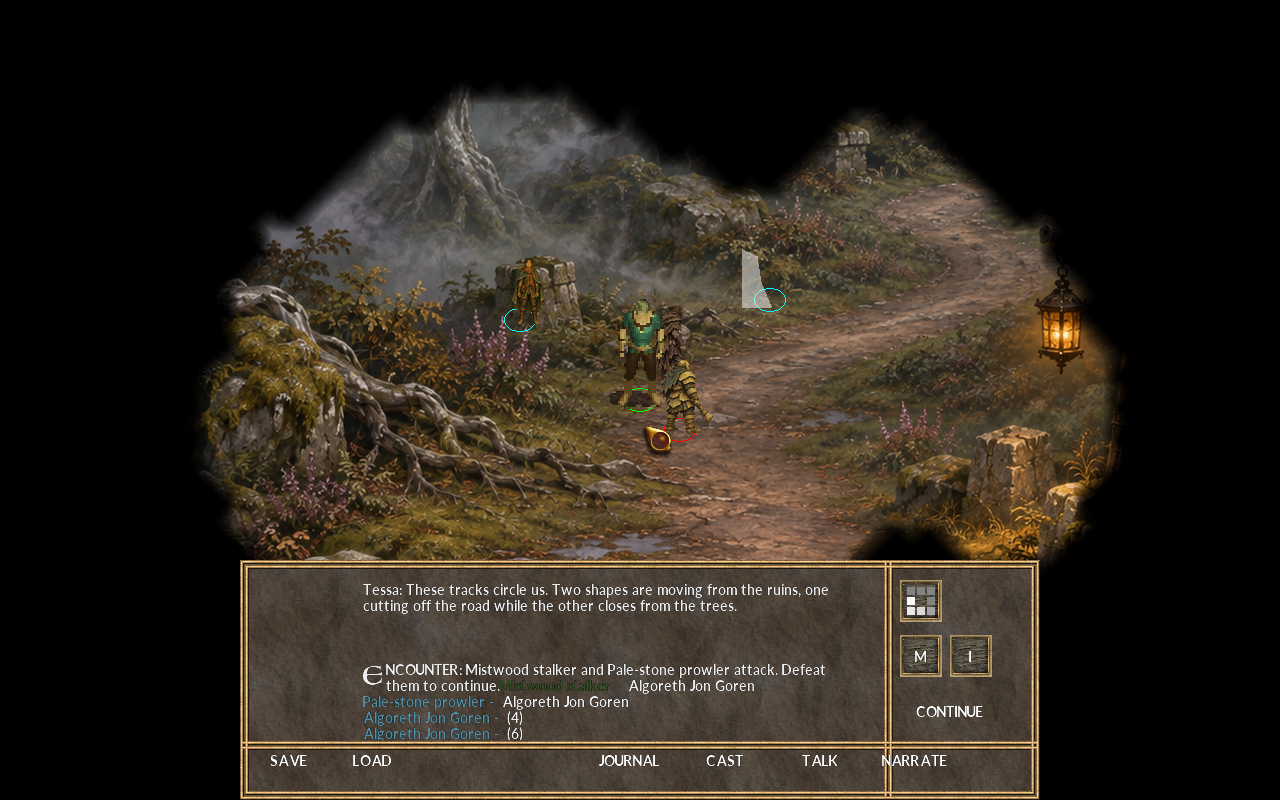
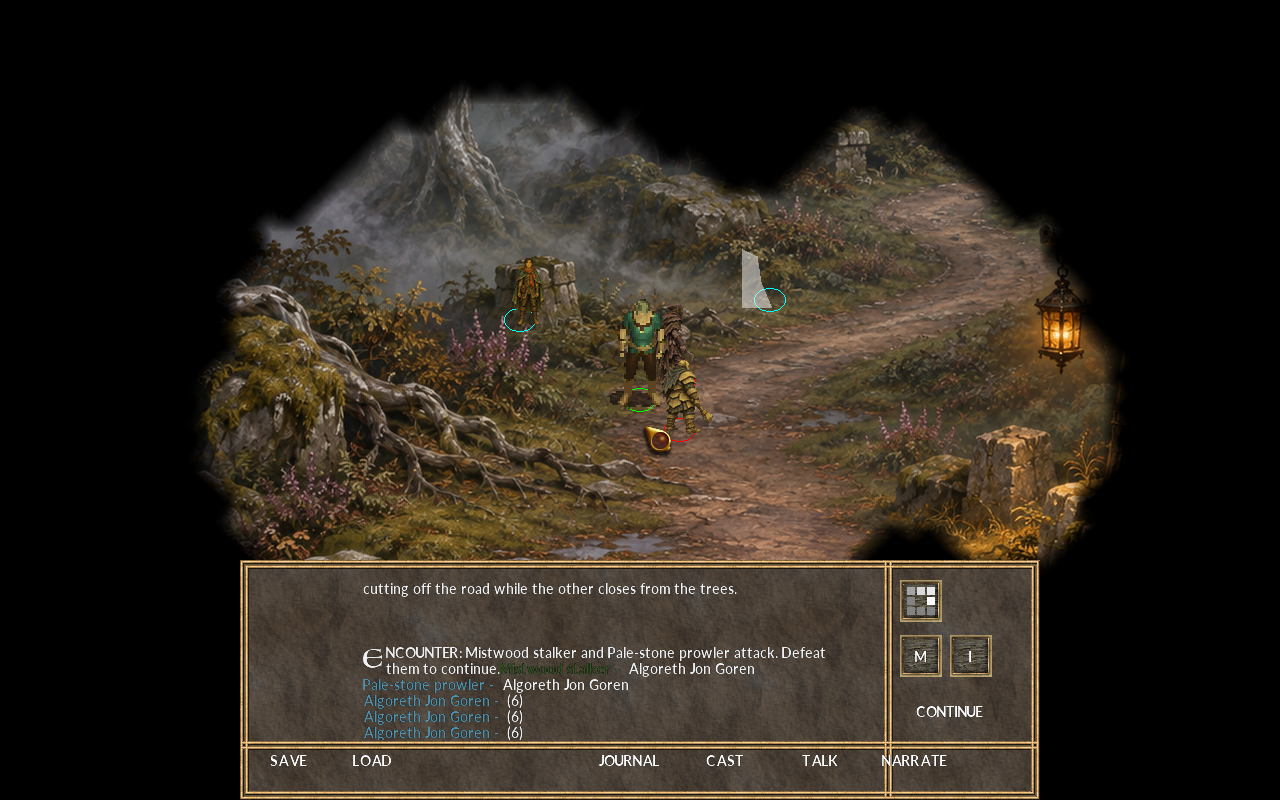
Add directional enemy attack animations

Changed region(s): [[0.2812, 0.8125, 0.6562, 0.9375], [0.2812, 0.7188, 0.625, 0.7812], [0.6875, 0.7188, 0.75, 0.7812]]

diff --git a/tools/terralum/build_npc_bams.py b/tools/terralum/build_npc_bams.py
@@ -224,6 +224,9 @@ def write_npc_avatar(name, prefix, output_override):
 	walk_bam = _bam_bytes(walk, walk_cycles)
 
 	idle = [_open_world_frame(source / f"{direction:02d}_00.png") for direction in range(9)]
+	attack_paths = [source / f"attack_{direction:02d}.png" for direction in range(9)]
+	attack = [_open_world_frame(path) for path in attack_paths] if all(
+		path.is_file() for path in attack_paths) else idle
 	# The standard humanoid's G17 awake stance indexes cycles 63 through 71.
 	idle_cycles = [[0] for _ in range(63)]
 	idle_cycles.extend([[direction] for direction in range(9)])
@@ -249,4 +252,16 @@ def write_npc_avatar(name, prefix, output_override):
 	(output_override / f"{prefix}G17.BAM").write_bytes(idle_bam)
 	for suffix, data in stance_bams.items():
 		(output_override / f"{prefix}{suffix}.BAM").write_bytes(data)
+
+	# IE_ANI_CODE_MIRROR resolves the three weapon families to a1-a3,
+	# a4-a6, or a7-a9 during melee. Supply all directional action BAMs.
+	attack_frames = []
+	attack_cycles = []
+	for direction in range(9):
+		start = len(attack_frames)
+		attack_frames.extend((idle[direction], attack[direction], idle[direction]))
+		attack_cycles.append([start, start + 1, start + 2])
+	attack_bam = _bam_bytes(attack_frames, attack_cycles)
+	for suffix in range(1, 10):
+		(output_override / f"{prefix}a{suffix}.BAM").write_bytes(attack_bam)
 	return (len(walk_bam), len(ready_bam), len(idle_bam))

diff --git a/tools/terralum/import_painted_turnaround.py b/tools/terralum/import_painted_turnaround.py
@@ -24,6 +24,8 @@ def main():
 	parser = argparse.ArgumentParser(description=__doc__)
 	parser.add_argument("sheet", type=Path, help="transparent 3x3 turnaround PNG")
 	parser.add_argument("asset", help="world sprite folder name, such as mara00")
+	parser.add_argument("--attack", action="store_true",
+		help="import directional attack views as attack_00.png through attack_08.png")
 	args = parser.parse_args()
 	with Image.open(args.sheet) as source:
 		image = source.convert("RGBA")
@@ -41,9 +43,13 @@ def main():
 		cell.thumbnail((72, 88), Image.Resampling.LANCZOS)
 		frame = Image.new("RGBA", FRAME_SIZE, (0, 0, 0, 0))
 		frame.alpha_composite(cell, ((FRAME_SIZE[0] - cell.width) // 2, FRAME_SIZE[1] - cell.height))
-		for pose in range(4):
-			frame.save(output / f"{direction:02d}_{pose:02d}.png")
-	print(f"Imported 9 painted idle views for {args.asset} into {output}")
+		if args.attack:
+			frame.save(output / f"attack_{direction:02d}.png")
+		else:
+			for pose in range(4):
+				frame.save(output / f"{direction:02d}_{pose:02d}.png")
+	mode = "attack" if args.attack else "idle"
+	print(f"Imported 9 painted {mode} views for {args.asset} into {output}")
 
 
 if __name__ == "__main__":

diff --git a/tools/terralum/build_game.py b/tools/terralum/build_game.py
@@ -835,7 +835,8 @@ def build():
     songs.write_text(songs.read_text(encoding="ascii").replace("mx0100.mus", "tlcity.mus").replace("mx0110.mus", "tlcave.mus")
                      + "3       mistwood        tlwood.mus\n", encoding="ascii")
     actions = OUTPUT / "override" / "action.ids"
-    actions.write_text(actions.read_text(encoding="ascii") + "\n3 Attack(O:Target*)\n", encoding="ascii")
+    actions.write_text(actions.read_text(encoding="ascii")
+                       + "\n3 Attack(O:Target*)\n248 RunToPoint(P:Point*)\n", encoding="ascii")
     for sound in (PROJECT / "audio").glob("tln*.ogg"):
         shutil.copy2(sound, OUTPUT / "override" / sound.name)
     for music in (PROJECT / "audio" / "music").rglob("*"):

diff --git a/TODO.md b/TODO.md
@@ -120,7 +120,7 @@ This is the current work ledger for human and AI contributors. Read [AGENTS.md](
 - [ ] Diagnose Stablemaster Edda's blank world sprite in the Royal Stables. Her actor is targetable and native `EDDA.dlg` opens; the latest live run shows Tavin and the enlarged player, while Edda still appears only as a marker after all expected stance files were generated. Compare her CRE/base animation setup against the working Groom Tavin in-engine.
 - [ ] Place actual interactable clues, containers, doors, and travel links only where they match the new scene geometry.
 - [ ] Turn encounters into fully authored tactical events with clues, distinct enemy behavior and art, balance, failure outcomes, and quest-state effects. Mistwood now has a connected two-foe ambush with separate painted Stalker and Prowler sprites and CREs; the Academy vault has a two-phase echo fight with a save-reload recovery note. Basic live combat is verified; defeat/reload recovery and balance remain unverified.
-- [x] Imported unique painted Stalker and Pale-stone Prowler combat sprites as separate enemy CRE/BAM resources, and confirmed both spawn and attack Algoreth in live Mistwood combat. Corrected the player's fixed-offset stance BAM tables; attacks and damage now render with no missing-cycle errors. The fight still logs an invalid `RunToPoint` action, so chase/path behavior and tactical balance remain open.
+- [x] Imported unique painted Stalker and Pale-stone Prowler combat sprites as separate enemy CRE/BAM resources, including directional idle–strike–recovery melee animations for all nine weapon variants. Corrected the player's fixed-offset stance BAM tables. The demo action IDS omitted `RunToPoint`, which GemRB's Attack queues to close distance; registering its action ID removed the runtime warning. A fresh live ambush confirms both enemies spawn, pursue/attack, and play without missing attack BAM or player-cycle errors. Defeat/reload recovery and balance remain open.
 - [ ] Review all 62 cast sheets against live scenes; deepen return-state dialogue and recurring NPC continuity where appropriate.
 
 ### P2 — Expand the campaign

diff --git a/LEARNINGS.md b/LEARNINGS.md
@@ -137,6 +137,7 @@ This file records verified implementation findings and mistakes that should info
 - GemRB's `IE_ANI_CODE_MIRROR` humanoid animations request VHR stances at fixed cycle offsets in separate BAM files. File presence alone does not validate the cycle table: the protagonist's G17 only has populated awake idle directions at cycles 63–71. Build fallback stance BAMs with explicit cycle tables mapped to those frames. A live Mistwood ambush then exercised player attack and damage states without `Couldn't load animation` cycle errors. Painted NPC BAMs also need their own correctly padded stance tables; keep live actor checks per CRE.
 - Use the dedicated Kokoro environment for local narration generation. The adjacent general-purpose companion venv crashes during interpreter startup on this machine, while the Kokoro-specific venv imports `kokoro_onnx` and renders with the local model and voice pack. Keep all scene voice references populated and verify the full story list has a corresponding OGG before rebuilding; generated audio files are runtime assets and the model weights remain external.
 - Keep encounter-only enemies in a separate avatar catalog instead of `scene_cast.json`; otherwise the area cast spawner creates a neutral duplicate before the hostile encounter actor. Give each enemy its own CRE/animation row and directional BAM set, then validate it in the actual fight scene.
+- GemRB's demo `action.ids` is a deliberately small list. When scripted `Attack` needs to close distance, the engine generates `RunToPoint`; register its action ID (248 in this build) and signature in the built game's action IDS or parsing logs report `Invalid scripting action` even though combat proceeds. Verify with an out-of-range live target and inspect the GameScript log.
 
 \n
 ### NPC art needs a scene-level pass

diff --git a/terralum/GOLD_STANDARD_GAME_DESIGN_PIPELINE.md b/terralum/GOLD_STANDARD_GAME_DESIGN_PIPELINE.md
@@ -111,7 +111,7 @@ In the current prototype, `terralum/area_searchmaps.json` stores polygon coordin
 
 For every encounter or puzzle, specify the player-facing clue, expected tactics, difficulty target, party assumptions, failure state, victory state, and quest effect. Provide a noncombat route when it fits the characters and scene. Rewards should arrive at the moment promised and be recorded in the journal or world state. Persistent story events must survive save/load without duplication.
 
-Give named enemies their own visible CRE and world-sprite resources when the encounter depends on recognizing them. Keep encounter-only actors in a separate enemy avatar catalog so the area cast does not spawn a neutral duplicate before combat. Distinct names in the log or panel do not replace a visible enemy silhouette.
+Give named enemies their own visible CRE, idle, attack, hit, and death resources when the encounter depends on recognizing them. For `IE_ANI_CODE_MIRROR`, melee uses the `a1`–`a9` BAM families; generate each required directional resource and verify the full attack cycle in GemRB. Include the action IDS entries used by engine-generated chase actions such as `RunToPoint`. Keep encounter-only actors in a separate enemy avatar catalog so the area cast does not spawn a neutral duplicate before combat. Distinct names in the log or panel do not replace a visible enemy silhouette.
 
 **Pass:** The encounter is winnable with the expected party, loss cannot softlock the campaign, and victory or resolution visibly changes the scene or quest.
 

diff --git a/terralum/README.md b/terralum/README.md
@@ -48,7 +48,7 @@ The latest readability pass gives Scout Tessa a blue-green cloak, rust signal ma
 
 Four generated portrait sheets now provide medium and small GemRB portrait resources for all thirty-eight unique named NPCs across the seven-act cast. These dialogue portraits are separate from the animated world sprites. Portraits are selected by NPC data and appear beside their dialogue. The latest sheet adds distinct portraits for twelve previously unpictured characters.
 
-Mistwood's two ambushers use their own painted 2D enemy sprites instead of generic protagonist/riddler placeholders. Their encounter CREs and animation rows are registered separately from neutral scene NPCs in `enemy_avatars.json`. A live battle capture shows the Stalker and Pale-stone Prowler attacking the enlarged player; movement scripting and battle balance still need work.
+Mistwood's two ambushers use their own painted 2D enemy sprites instead of generic protagonist/riddler placeholders. Their encounter CREs and animation rows are registered separately from neutral scene NPCs in `enemy_avatars.json`. Each enemy has a directional painted attack sheet and idle–strike–recovery melee BAMs. A live battle capture shows the Stalker and Pale-stone Prowler attacking the enlarged player; defeat/reload recovery and combat balance still need work.
 
 ![Live GemRB screenshot of the Mistwood ambush with unique enemy sprites and enlarged player](screenshots/mistwood-unique-enemies-live.png)
 

diff --git a/terralum/art/reference/painted_turnarounds/README.md b/terralum/art/reference/painted_turnarounds/README.md
@@ -18,6 +18,8 @@ These generated transparent turnarounds establish the corrected world-character 
 | Mistwood Stalker (encounter enemy) | `mistalk` | `mistwood_stalker.png` |
 | Pale-Stone Prowler (encounter enemy) | `paleprow` | `pale_stone_prowler.png` |
 
+The Stalker and Prowler also have directional attack turnarounds in `mistwood_stalker_attack.png` and `pale_stone_prowler_attack.png`. Import their attack poses with `python tools/terralum/import_painted_turnaround.py <sheet> <asset> --attack`. The BAM builder uses these frames for all nine mirrored-human melee attack resources, with an idle/strike/recovery sequence per direction.
+
 Convert a sheet into GemRB's nine directional 80x96 frame slots with:
 
 ```powershell
